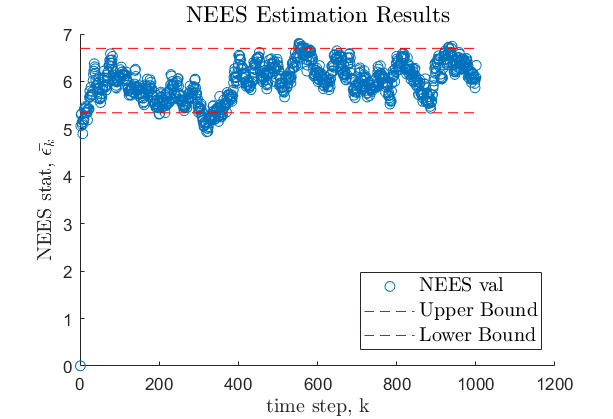
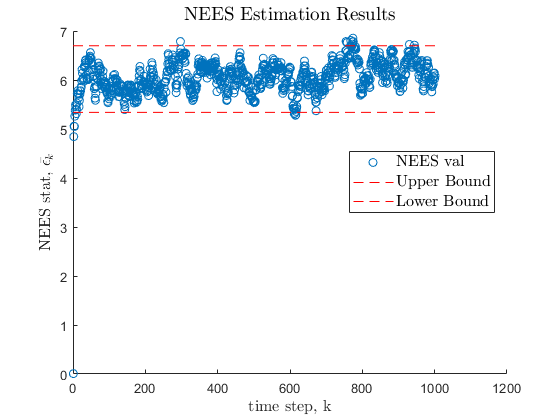
tweaks to plots and code

diff --git a/FinalProject.m b/FinalProject.m
@@ -57,12 +57,17 @@ theta_g_nom = theta_g0+thetag_dot_nom*tarr;
 thetaa_dot_nom = omega_a0;
 theta_a_nom = theta_a0+thetaa_dot_nom*tarr;
 
-xnom = [xi_g0+v_g0/thetag_dot_nom*sin(theta_g_nom)-v_g0/thetag_dot_nom*sin(theta_g0);...
-        eta_g0-v_g0/thetag_dot_nom*cos(theta_g_nom)+v_g0/thetag_dot_nom*cos(theta_g0);...
-        theta_g_nom;...
-        xi_a0+v_a0/thetaa_dot_nom*sin(theta_a_nom)-v_a0/thetaa_dot_nom*sin(theta_a0);...
-        eta_a0-v_a0/thetaa_dot_nom*cos(theta_a_nom)+v_a0/thetaa_dot_nom*cos(theta_a0);...
-        theta_a_nom];
+% xnom = [xi_g0+v_g0/thetag_dot_nom*sin(theta_g_nom)-v_g0/thetag_dot_nom*sin(theta_g0);...
+%         eta_g0-v_g0/thetag_dot_nom*cos(theta_g_nom)+v_g0/thetag_dot_nom*cos(theta_g0);...
+%         theta_g_nom;...
+%         xi_a0+v_a0/thetaa_dot_nom*sin(theta_a_nom)-v_a0/thetaa_dot_nom*sin(theta_a0);...
+%         eta_a0-v_a0/thetaa_dot_nom*cos(theta_a_nom)+v_a0/thetaa_dot_nom*cos(theta_a0);...
+%         theta_a_nom];
+
+% Calculate xnom (an alternative to the above matrix)
+my_ode = @(t,y) NL_ode(t,y,v_g0,phi_g0,v_a0,omega_a0,[0;0;0],[0;0;0],L);
+[t,xarr] = ode45(my_ode,tarr,xnom_t0);
+xnom=xarr';
 
 unom = repmat(unom_t0,1,length(tarr));
 
@@ -199,9 +204,9 @@ ysigmas_all = zeros(5,length(tarr), MC_num);
 
 % TUNING THE Q MATRIX
     % manually adjusting based on error plots and NEES plots
-Q_LKF = diag([1000, 1000, .4, 100, 100, 3]);
+Q_LKF = diag([1000, 1000, .3, 100, 100, 2]);
 R_LKF = R;
-P0_LKF = diag([.5 .5 .03 400 400 .3]);
+P0_LKF = diag([.5 .5 .03 300 300 .3]);
 
 
 for m = 1:MC_num % for each MC iteration
@@ -291,11 +296,11 @@ xhat_all = zeros(6, length(tarr), MC_num); % Final state estimate
 y_act = zeros(5, length(tarr), MC_num); % Actual measurements
 sigmas_all = zeros(6, 6, length(tarr), MC_num);
 
-x_truth_sim=zeros(6,length(tarr), MC_num);
+x_truth_sim = zeros(6,length(tarr), MC_num);
 y_truth_sim = zeros(5, length(tarr),MC_num);
 
 xhat0_EKF = xnom(:,1);
-Pk0_EKF = diag([300 300 10 300 300 10]); 
+Pk0_EKF = diag([300 300 3 300 300 3]); 
 Q_EKF = Q;
 
 % initialize error bounds
@@ -305,7 +310,7 @@ Q_EKF = Q;
 for m = 1:MC_num % Monte Carlo iterations
 
     % Simulate truth state for NEES and NIS tests
-    xtrue0 = mvnrnd(xnom_t0, Q)'; % initial state
+    xtrue0 = mvnrnd(xnom_t0, Q)'; % initial state 
     x_truth_sim(:,1,m)= xtrue0;
 
     % Simulate measurements
@@ -344,8 +349,6 @@ for m = 1:MC_num % Monte Carlo iterations
     
 end
 
-% error1 = y_truth_sim(:,2:end,5)-y_all(:,2:end,5);
-% error1(1,:)
 
 %% Plots for Problem 5a/EKF
 % Plots for a single ‘typical’ simulation instance, showing the noisy simulated ground truth
@@ -846,12 +849,12 @@ function [Pk_all, yhat,xhat_p,innovation,Sk_collect,sigmas_collect,xsigmas,ysigm
 
     for k=2:length(tarr)
         % Calculate Jacobians for each time step using current state
-        Abar_k = compute_Abar(xhat_p(:, k-1), unom(:, k-1)); %does unom change? no
-        Bbar_k = compute_Bbar(xhat_p(:, k-1), unom(:, k-1)); %does unom change? no
+        Abar_k = compute_Abar(xhat_p(:, k-1), unom(:, k-1));
+        Bbar_k = compute_Bbar(xhat_p(:, k-1), unom(:, k-1)); 
 
         Ftild_k = eye(6) + dt * Abar_k; % State transition matrix
         Gtild_k = dt * Bbar_k; % Input matrix.
-        Omegatild_k = dt * eye(6);   %does this need to change per timestep? No
+        Omegatild_k = dt * eye(6);  
 
         % Compute Q_k dynamically
         Q_k = Q; 
@@ -870,15 +873,16 @@ function [Pk_all, yhat,xhat_p,innovation,Sk_collect,sigmas_collect,xsigmas,ysigm
 
         % innovation
         predicted_y = compute_Y(xhat_minus);
-        Htild_k = compute_Cbar(xhat_minus); % I believe this is the same as dh/dx from Lecture 32 slide 7
+        Htild_k = compute_Cbar(xhat_minus);
 
         ey_k = y_truth_sim(:, k) - predicted_y; % Actual measurements - predicted  
-        ey_k(1) = wrapToPi(ey_k(1));
-        ey_k(3) = wrapToPi(ey_k(3));
+        padding = 1e-6; % tiny tolerance
+        ey_k(1) = mod(ey_k(1) + pi + padding, 2*pi) - pi - padding;
+        ey_k(3) = mod(ey_k(3) + pi + padding, 2*pi) - pi - padding;
         
         % correction
         Sk = Htild_k * Pk_minus * Htild_k' + R;
-        Skval = 0.5*(Sk + Sk'); %taken from part 4. Do we need this?
+        Skval = 0.5*(Sk + Sk');
 
         Kk = Pk_minus * Htild_k' / Sk;
 
@@ -920,7 +924,7 @@ function [Pk,dyhat,dxhat,innovation,Sk,xsigmas,ysigmas] = LKF(y_truth_sim,dxhat0
 
     
     % ----------------
-    % Next, use the simulated "truth" measurements as inputs to KF
+    % Use the simulated "truth" measurements as inputs to KF
 
     % initialize KF
     dxhat = zeros(6,length(tarr)); 
@@ -968,8 +972,6 @@ function [Pk,dyhat,dxhat,innovation,Sk,xsigmas,ysigmas] = LKF(y_truth_sim,dxhat0
         pretend_y_data = y_truth_sim(:,k); % this is y_k+1
         % y* contains NO NOISE
         predicted_y = compute_Y(xnom(:,k)); % this is y*_k+1
-        predicted_y(1,:) = wrapToPi(predicted_y(1,:));
-        predicted_y(3,:) = wrapToPi(predicted_y(3,:));
         dy = pretend_y_data-predicted_y;
         innovation_k = dy-Htild_k*dxhat_minus; 
         % angle wrapping - rows 1 and 3 of the innovation vector
